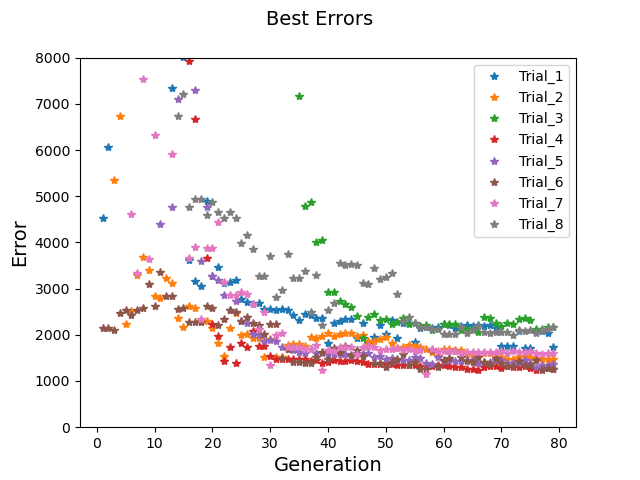
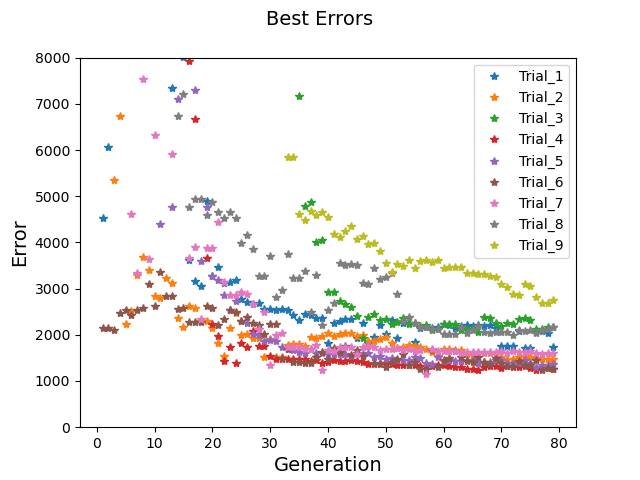
newind

diff --git a/plot_GA.py b/plot_GA.py
@@ -60,6 +60,12 @@ ind_8 = ind_8.to_dict('index')
 t8, v8 = plot_GA(ind_8)
 plt.plot(t8, v8, label = 'Trial_8')
 
+ind_9 = pd.read_excel('Best_ind_9.xlsx')
+ind_9 = ind_9.to_dict('index')
+
+t9, v9 = plot_GA(ind_9)
+plt.plot(t9, v9, label = 'Trial_9')
+
 plt.legend()
 plt.ylabel('Voltage (mV)', fontsize=14)
 plt.xlabel('Time (ms)', fontsize=14)
@@ -102,6 +108,10 @@ plt.plot(gen, best_err_7,'*', label = 'Trial_7')
 err_8 = pd.read_excel('Errors_8.xlsx')
 best_err_8 = list(err_8['Best Error'])
 plt.plot(gen, best_err_8,'*', label = 'Trial_8')
+
+err_9 = pd.read_excel('Errors_9.xlsx')
+best_err_9 = list(err_9['Best Error'])
+plt.plot(gen, best_err_9,'*', label = 'Trial_9')
 
 plt.legend()
 plt.ylabel('Error', fontsize=14)
